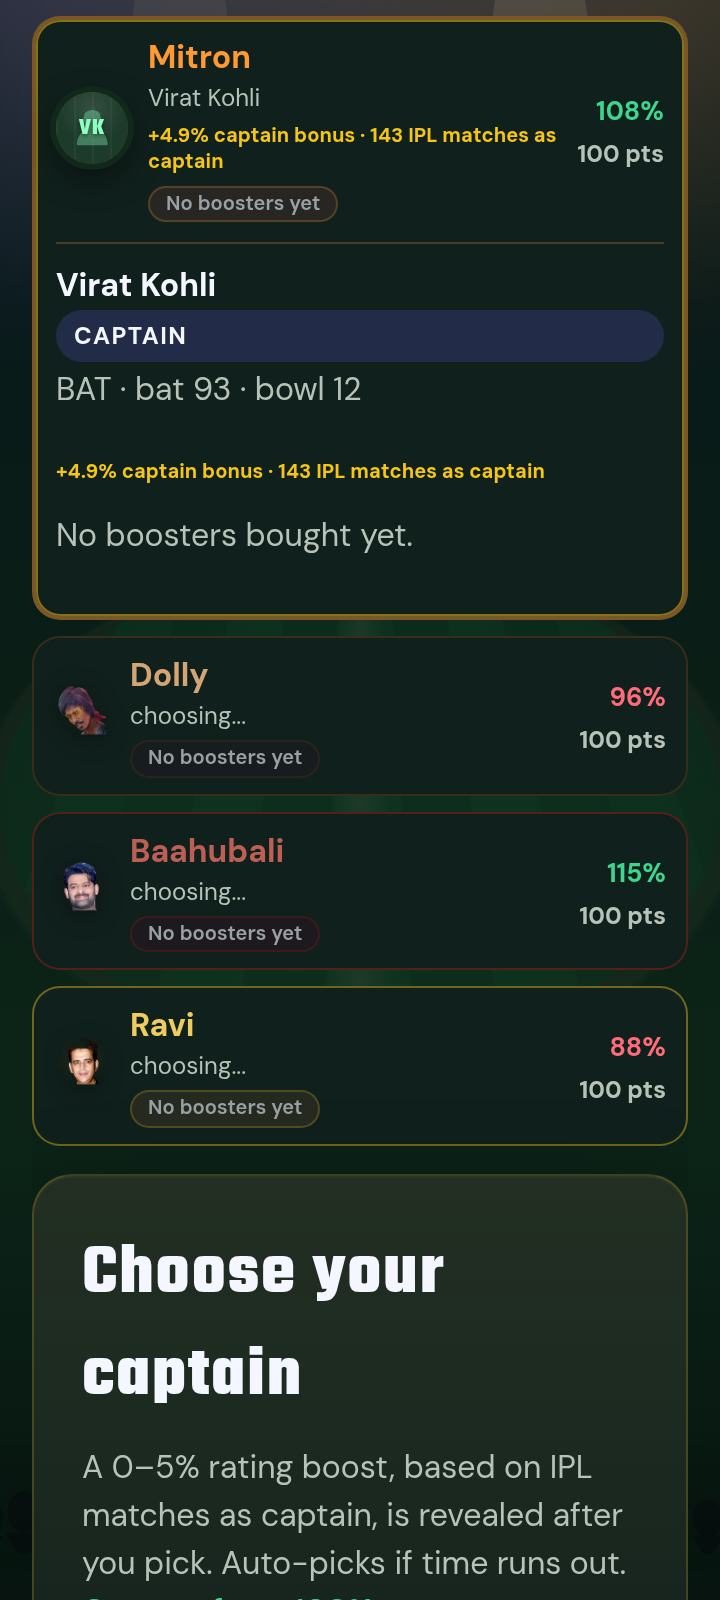
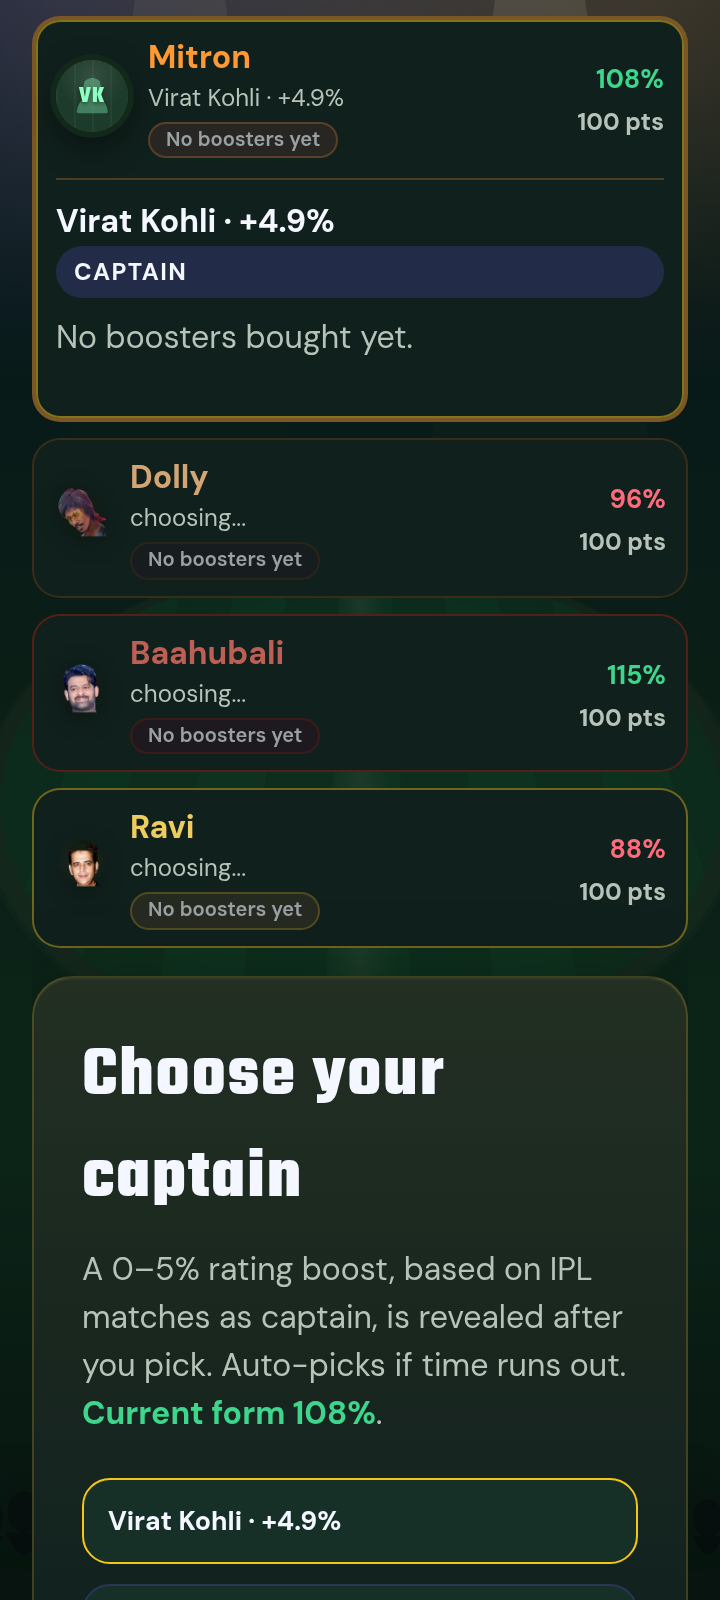
Show only the captain's name and bonus percentage after the pick.

diff --git a/public/app.js b/public/app.js
@@ -1725,6 +1725,12 @@ function captainBonusLabelOf(team) {
   return team.captainBonusLabel || "";
 }
 
+function captainRevealText(name, team) {
+  const bonus = captainBonusLabelOf(team);
+  if (!name) return bonus || "";
+  return bonus ? `${name} · ${bonus}` : name;
+}
+
 function cursedByOf(team, franchises) {
   const name = team && team.name;
   if (!name) return [];
@@ -1825,9 +1831,8 @@ function prepCard(team) {
   const catalog = catalogById();
   let details = "";
   if (expanded) {
-    const capBonus = captainBonusLabelOf(team);
     const capBlock = captain
-      ? `<div class="prep-detail-cap"><strong>${esc(captain.name)}</strong> <span class="tag">Captain</span><p class="lede">${esc(captain.role)} · bat ${esc(captain.batting)} · bowl ${esc(captain.bowling)}</p>${capBonus ? `<p class="prep-cap-bonus">${esc(capBonus)}</p>` : ""}</div>`
+      ? `<div class="prep-detail-cap"><strong>${esc(captainRevealText(captain.name, team))}</strong> <span class="tag">Captain</span></div>`
       : `<p class="lede">Captain still choosing...</p>`;
     const boostLines = (team.boosters || []).map((b) => {
       const full = catalog.get(b.id) || b;
@@ -1844,8 +1849,7 @@ function prepCard(team) {
         <div class="prep-card-face">${shot}</div>
         <div class="prep-card-copy">
           <h3>${esc(team.name)}</h3>
-          <p class="prep-captain-line">${captain ? esc(captain.name) : "choosing..."}</p>
-          ${captain && captainBonusLabelOf(team) ? `<p class="prep-cap-bonus">${esc(captainBonusLabelOf(team))}</p>` : ""}
+          <p class="prep-captain-line">${captain ? esc(captainRevealText(captain.name, team)) : "choosing..."}</p>
           <div class="prep-chips">${chips}</div>
         </div>
         <div class="prep-card-meta">
@@ -1909,17 +1913,16 @@ function captainView() {
   const left = formatClock(remainingMs(state.captainEndsAt));
   const catalog = state.boosterCatalog || [];
   const owned = new Set((you?.boosters || []).map((b) => b.id));
-  const yourBonus = captainBonusLabelOf(you);
   const picks = (you?.squad || [])
     .map(
       (s) => {
         const selected = you && you.captainId === s.player.id;
-        const bonus = selected && yourBonus ? `<p class="prep-cap-bonus">${esc(yourBonus)}</p>` : "";
+        const title = selected ? captainRevealText(s.player.name, you) : s.player.name;
+        const meta = selected ? "" : `<div class="lede" style="margin:4px 0 0">${s.player.role} · bat ${s.player.batting} · bowl ${s.player.bowling}</div>`;
         return `
       <button class="pick ${selected ? "selected" : ""}" data-captain="${esc(s.player.id)}">
-        <strong>${esc(s.player.name)}</strong>
-        <div class="lede" style="margin:4px 0 0">${s.player.role} · bat ${s.player.batting} · bowl ${s.player.bowling}</div>
-        ${bonus}
+        <strong>${esc(title)}</strong>
+        ${meta}
       </button>`;
       }
     )
@@ -2197,8 +2200,7 @@ function fillResultsTeamSheet(name) {
     return `<li class="sheet-player ${top ? "is-top" : ""}">
       <div class="sheet-shot" id="${shotId}"></div>
       <div class="sheet-player-body">
-        <p class="sheet-player-name">${s.isCaptain ? '<span class="cap">CAP</span> ' : ""}${esc(p.name || "")}${top ? ' <span class="sheet-top-tag">Top performer</span>' : ""}</p>
-        ${s.isCaptain && captainBonusLabelOf(team) ? `<p class="sheet-cap-bonus">${esc(captainBonusLabelOf(team))}</p>` : ""}
+        <p class="sheet-player-name">${s.isCaptain ? '<span class="cap">CAP</span> ' : ""}${esc(s.isCaptain ? captainRevealText(p.name || "", team) : (p.name || ""))}${top ? ' <span class="sheet-top-tag">Top performer</span>' : ""}</p>
         <p class="sheet-player-meta">${roleTag(p.role)} · ${money(s.priceLakhs)}</p>
         <p class="sheet-player-stats">${lines}</p>
       </div>

diff --git a/scripts/shot-captain-bonus.js b/scripts/shot-captain-bonus.js
@@ -148,7 +148,7 @@ async function main() {
     await waitFor(host, () => {
       const st = window.IplApp && window.IplApp.state;
       const text = (document.getElementById("prep-screen") && document.getElementById("prep-screen").innerText) || "";
-      return Boolean(st && st.phase === "captains" && document.getElementById("prep-screen") && /Choose your captain/.test(text) && !/\+4\.9% captain bonus/.test(text));
+      return Boolean(st && st.phase === "captains" && document.getElementById("prep-screen") && /Choose your captain/.test(text) && !/Virat Kohli · \+4\.9%/.test(text));
     }, "prep board before pick");
 
     const picked = await emit(host, "selectCaptain", { playerId: "virat-kohli" });
@@ -156,7 +156,7 @@ async function main() {
     await waitFor(host, () => {
       const card = document.querySelector('[data-prep-team="Mitron"]');
       const text = ((card && card.innerText) || "") + ((document.getElementById("prep-screen") && document.getElementById("prep-screen").innerText) || "");
-      return Boolean(card && /\+4\.9% captain bonus/.test(text) && /143 IPL matches as captain/.test(text) && /Virat Kohli/.test(text));
+      return Boolean(card && /Virat Kohli · \+4\.9%/.test(text) && !/143 IPL matches as captain/.test(text) && !/captain bonus/.test(text));
     }, "kohli bonus revealed");
 
     await host.evaluate(() => {
@@ -166,7 +166,7 @@ async function main() {
     await waitFor(host, () => {
       const card = document.querySelector('[data-prep-team="Mitron"].is-open');
       const text = card ? card.innerText : "";
-      return Boolean(card && /\+4\.9% captain bonus · 143 IPL matches as captain/.test(text));
+      return Boolean(card && /Virat Kohli · \+4\.9%/.test(text) && !/bat 93/.test(text) && !/captain bonus/.test(text));
     }, "mitron card expanded");
     await sleep(300);
     await shot(host, "captain-bonus-reveal.png", PHONE_NARROW, { scroll: '[data-prep-team="Mitron"]', hideTopbar: true });
@@ -186,7 +186,7 @@ async function main() {
     await waitFor(host, () => {
       const modal = document.getElementById("results-team-sheet");
       const text = modal ? modal.innerText : "";
-      return Boolean(modal && !modal.hidden && /Virat Kohli/.test(text) && /\+4\.9% captain bonus · 143 IPL matches as captain/.test(text));
+      return Boolean(modal && !modal.hidden && /Virat Kohli · \+4\.9%/.test(text) && !/captain bonus/.test(text) && !/IPL matches as captain/.test(text));
     }, "sheet shows captain bonus");
     try {
       await waitFor(host, () => {

diff --git a/test/logic.test.js b/test/logic.test.js
@@ -142,12 +142,12 @@ describe("captain bonus", () => {
       assert.ok(b >= 0 && b <= 0.05 + 1e-12);
       prev = b;
     }
-    assert.equal(formatCaptainBonus(0), "+0.0% captain bonus · never captained in the IPL");
-    assert.equal(formatCaptainBonus(1), "+0.7% captain bonus · 1 IPL match as captain");
-    assert.equal(formatCaptainBonus(43), "+3.7% captain bonus · 43 IPL matches as captain");
-    assert.equal(formatCaptainBonus(143), "+4.9% captain bonus · 143 IPL matches as captain");
-    assert.equal(formatCaptainBonus(158), "+5.0% captain bonus · 158 IPL matches as captain");
-    assert.equal(formatCaptainBonus(235), "+5.0% captain bonus · 235 IPL matches as captain");
+    assert.equal(formatCaptainBonus(0), "+0.0%");
+    assert.equal(formatCaptainBonus(1), "+0.7%");
+    assert.equal(formatCaptainBonus(43), "+3.7%");
+    assert.equal(formatCaptainBonus(143), "+4.9%");
+    assert.equal(formatCaptainBonus(158), "+5.0%");
+    assert.equal(formatCaptainBonus(235), "+5.0%");
   });
 
   test("the captain's rating boost uses the curve, not a flat 5%", () => {
@@ -209,8 +209,8 @@ describe("captain bonus", () => {
     const team = after.franchises.find((f) => f.name === "Ashutosh");
     assert.equal(team.captainId, "virat-kohli");
     assert.equal(team.captainMatches, 143);
-    assert.equal(team.captainBonusLabel, "+4.9% captain bonus · 143 IPL matches as captain");
-    assert.ok(after.prepFeed.some((e) => /Virat Kohli/.test(e.message) && /\+4\.9% captain bonus/.test(e.message)));
+    assert.equal(team.captainBonusLabel, "+4.9%");
+    assert.ok(after.prepFeed.some((e) => e.message === "Ashutosh named Virat Kohli · +4.9%"));
     for (const s of team.squad) {
       assert.equal("captainMatches" in (s.player || {}), false);
     }

diff --git a/server/captaincy.js b/server/captaincy.js
@@ -35,10 +35,7 @@ function captainBonusPct(matches) {
 
 function formatCaptainBonus(matches) {
   const n = Math.max(0, Math.floor(Number(matches) || 0));
-  const pct = captainBonusPct(n).toFixed(1);
-  if (n <= 0) return `+${pct}% captain bonus · never captained in the IPL`;
-  const games = n === 1 ? "1 IPL match as captain" : `${n} IPL matches as captain`;
-  return `+${pct}% captain bonus · ${games}`;
+  return `+${captainBonusPct(n).toFixed(1)}%`;
 }
 
 function packCaptainBonus(player) {

diff --git a/server/game.js b/server/game.js
@@ -1728,7 +1728,7 @@ class GameRoom extends EventEmitter {
     const captainName = slot.player && slot.player.name;
     const bonus = packCaptainBonus(slot.player);
     const message = captainName
-      ? `${team.name} named ${captainName} captain · ${bonus.captainBonusLabel}`
+      ? `${team.name} named ${captainName} · ${bonus.captainBonusLabel}`
       : `${team.name} picked a captain · ${bonus.captainBonusLabel}`;
     const feed = this.appendPrepFeed({
       kind: "captain",

diff --git a/README.md b/README.md
@@ -23,7 +23,7 @@ This is a local MVP. Nothing is deployed, and no accounts are required.
   - **Points floor and bans:** purses cannot go below 0. A team that reaches 0 is immediately shown room-wide as **Banned for match fixing** — their chip is marked banned, and they cannot bid or use powers.
   - **Power waits and quick chat:** during Dolly's chai break, Salman/Taylor/Kim/Ranveer target picks, or Rakhi's swayamvar choice, everyone can still send emotes and that player's own character lines as quick chat (the same lines as in the emote picker). The server only accepts a line that belongs to the sender's character. Dolly's pause is unlimited and only she can end it with **Chai khatam** (the host cannot resume; if she disconnects, the auction auto-resumes after 30 seconds). Rakhi's rivals have 15 seconds to pay her 3 points or refuse; a timeout counts as a refuse and they sit out the **next** lot only.
   - **Auction list:** when the host starts, the server builds the list of players that will come up. For each role in the room's mode it randomly picks **numTeams × role slots**, plus a small buffer of **max(1, ceil(numTeams / 2))** extra players of that role, from the full player database (roles with no slots, such as all-rounders in Rapid or Bullet, are omitted). Those picks are combined and shuffled once with a Fisher–Yates shuffle (crypto-quality randomness in play; tests can inject a seed or RNG). The auction then goes through that list **in that order**. Players no incomplete team can use — every remaining team is already full in that role — are skipped automatically, not put on the block. The buffer covers the default-bid overflow case: a team that is not yet complete may be forced to keep a player whose role quota is already full, which can leave another team short of that role. If the list still runs out while a team needs a role, a further small batch of that role is appended from whoever is left in the database. The auction ends when every remaining team has a complete squad; auto-fill at 1 point is the final fallback. The auction header shows **Lot X of N** for the current position in that list.
-- **Captain & boosters:** once the auction ends, teams have **90 seconds** to pick a captain and (if they have leftover points) buy funny boosters from the shop. One of each booster per team, priced 10–30 points according to measured impact. Unspent points are kept but unused. The phase ends early only when every team has a captain and nobody can afford another booster. If time runs out, the server auto-picks the highest-rated captain. The captain gets a **0–5% rating boost** scaled by how many IPL matches they have captained (never-captained players get 0%; the curve is log-scaled and reaches 5% at 158 matches, so Rohit Sharma and MS Dhoni sit at the ceiling). That bonus is hidden until the captain is selected, then revealed to everyone on the live board and later on the results team sheet (for example, `+3.7% captain bonus · 43 IPL matches as captain`). Two form boosters are the exception to the usual once-only form roll: **Net Session Masterclass** (19 points) guarantees your Current form finishes above 100% (a re-roll in 101–115 if it is not already; no extra bump if it already is), and **Nazar Lag Gayi** (20 points) lets you pick a rival and force their form below 100% (a re-roll in 85–99, or no change if it is already below). If a team has both its own guarantee and one or more curses, they cancel and the original form is kept. Those boosters are applied when the phase ends, before the tournament is simulated, and the form swings are shown in a short reveal. The captain/booster screen has a live board of every team's captain, boosters, points, Current form, and curse targets, plus a ticker of purchases. The shop lists boosters in decreasing order of measured impact, keeps the Small/Medium/Big tag, and hides the Buy button on anything you cannot buy. Team cards show only each booster's title-win chance, and curses such as Nazar Lag Gayi appear on the cursed team with the caster's name and the measured hit to that team's title chance (for example, Nazar from Ravi · −9% title chance). When a curse actually changes form, the form-swing reveal mentions that impact too. Bought boosters have modest effects on the simulation and show up in results with any moments they triggered.
+- **Captain & boosters:** once the auction ends, teams have **90 seconds** to pick a captain and (if they have leftover points) buy funny boosters from the shop. One of each booster per team, priced 10–30 points according to measured impact. Unspent points are kept but unused. The phase ends early only when every team has a captain and nobody can afford another booster. If time runs out, the server auto-picks the highest-rated captain. The captain gets a **0–5% rating boost** scaled by how many IPL matches they have captained (never-captained players get 0%; the curve is log-scaled and reaches 5% at 158 matches, so Rohit Sharma and MS Dhoni sit at the ceiling). That bonus is hidden until the captain is selected, then revealed to everyone on the live board and later on the results team sheet as the captain's name and bonus only (for example, `Shubman Gill · +3.7%`). Two form boosters are the exception to the usual once-only form roll: **Net Session Masterclass** (19 points) guarantees your Current form finishes above 100% (a re-roll in 101–115 if it is not already; no extra bump if it already is), and **Nazar Lag Gayi** (20 points) lets you pick a rival and force their form below 100% (a re-roll in 85–99, or no change if it is already below). If a team has both its own guarantee and one or more curses, they cancel and the original form is kept. Those boosters are applied when the phase ends, before the tournament is simulated, and the form swings are shown in a short reveal. The captain/booster screen has a live board of every team's captain, boosters, points, Current form, and curse targets, plus a ticker of purchases. The shop lists boosters in decreasing order of measured impact, keeps the Small/Medium/Big tag, and hides the Buy button on anything you cannot buy. Team cards show only each booster's title-win chance, and curses such as Nazar Lag Gayi appear on the cursed team with the caster's name and the measured hit to that team's title chance (for example, Nazar from Ravi · −9% title chance). When a curse actually changes form, the form-swing reveal mentions that impact too. Bought boosters have modest effects on the simulation and show up in results with any moments they triggered.
 - **Tournament:** only BAT, WK and AR players bat; only AR and BOWL players bowl. Strength is averaged over a full unit for the mode (Classical 7 batting-capable / 6 bowling-capable; Rapid 3/2; Bullet 2/1), so missing players count as zero and lopsided squads suffer. Innings length scales with the mode: Classical is a 20-over game (up to 10 wickets, bowlers capped at 4 overs, expected score around 155); Rapid is 10 overs (up to 4 wickets, 5-over cap, expected score around 78); Bullet is 6 overs (up to 2 wickets, the single bowler can bowl the lot, expected score around 47). Any squad member can be captain; if time runs out the server still auto-picks the highest-rated player. Form is rolled once when a squad is completed, as the average of two rolls in 85–115%, then shifted by up to **+5 / −5** points according to completion order (first to finish slightly hotter, last slightly colder; still random, with upsets possible). Auto-fill and last-team fill only affect that form rank — they do not apply any other penalty to the simulation or the scores. Then a round-robin league and playoffs (IPL-style if there are 4+ teams, or a top-2 final if fewer) are simulated internally to decide positions. Results are revealed in a **server-synced** standings crawl from last place up to the champion, one team at a time about every 2.8 seconds (or **Skip**). Each standings row shows position, team name (with a small co-owner portrait), the performance score out of 1000, and **Current form**. The champion row is highlighted. Finish tags and W–L sit on the team sheet, which opens when a row is tapped. The score is the existing squad strength, `round(clamp(S, 0, 110) / 110 * 1000)`, where S is the squad's simulated match strength (batting and bowling averages with empty-slot penalties, the captain's 0–5% bump, form, and standing boosters; dew-factor and the bus nerf are left out). Typical complete Classical sides land roughly 600–850. Match-by-match fixtures and the playoff bracket are not shown; tapping a team opens a sheet with the full squad and each player's simulated tournament batting and bowling. Target: under 2 minutes.
 
 Player ratings in `data/players.json` are **informal estimates** for game balance, not official stats. Swap that file to use your own pool.
